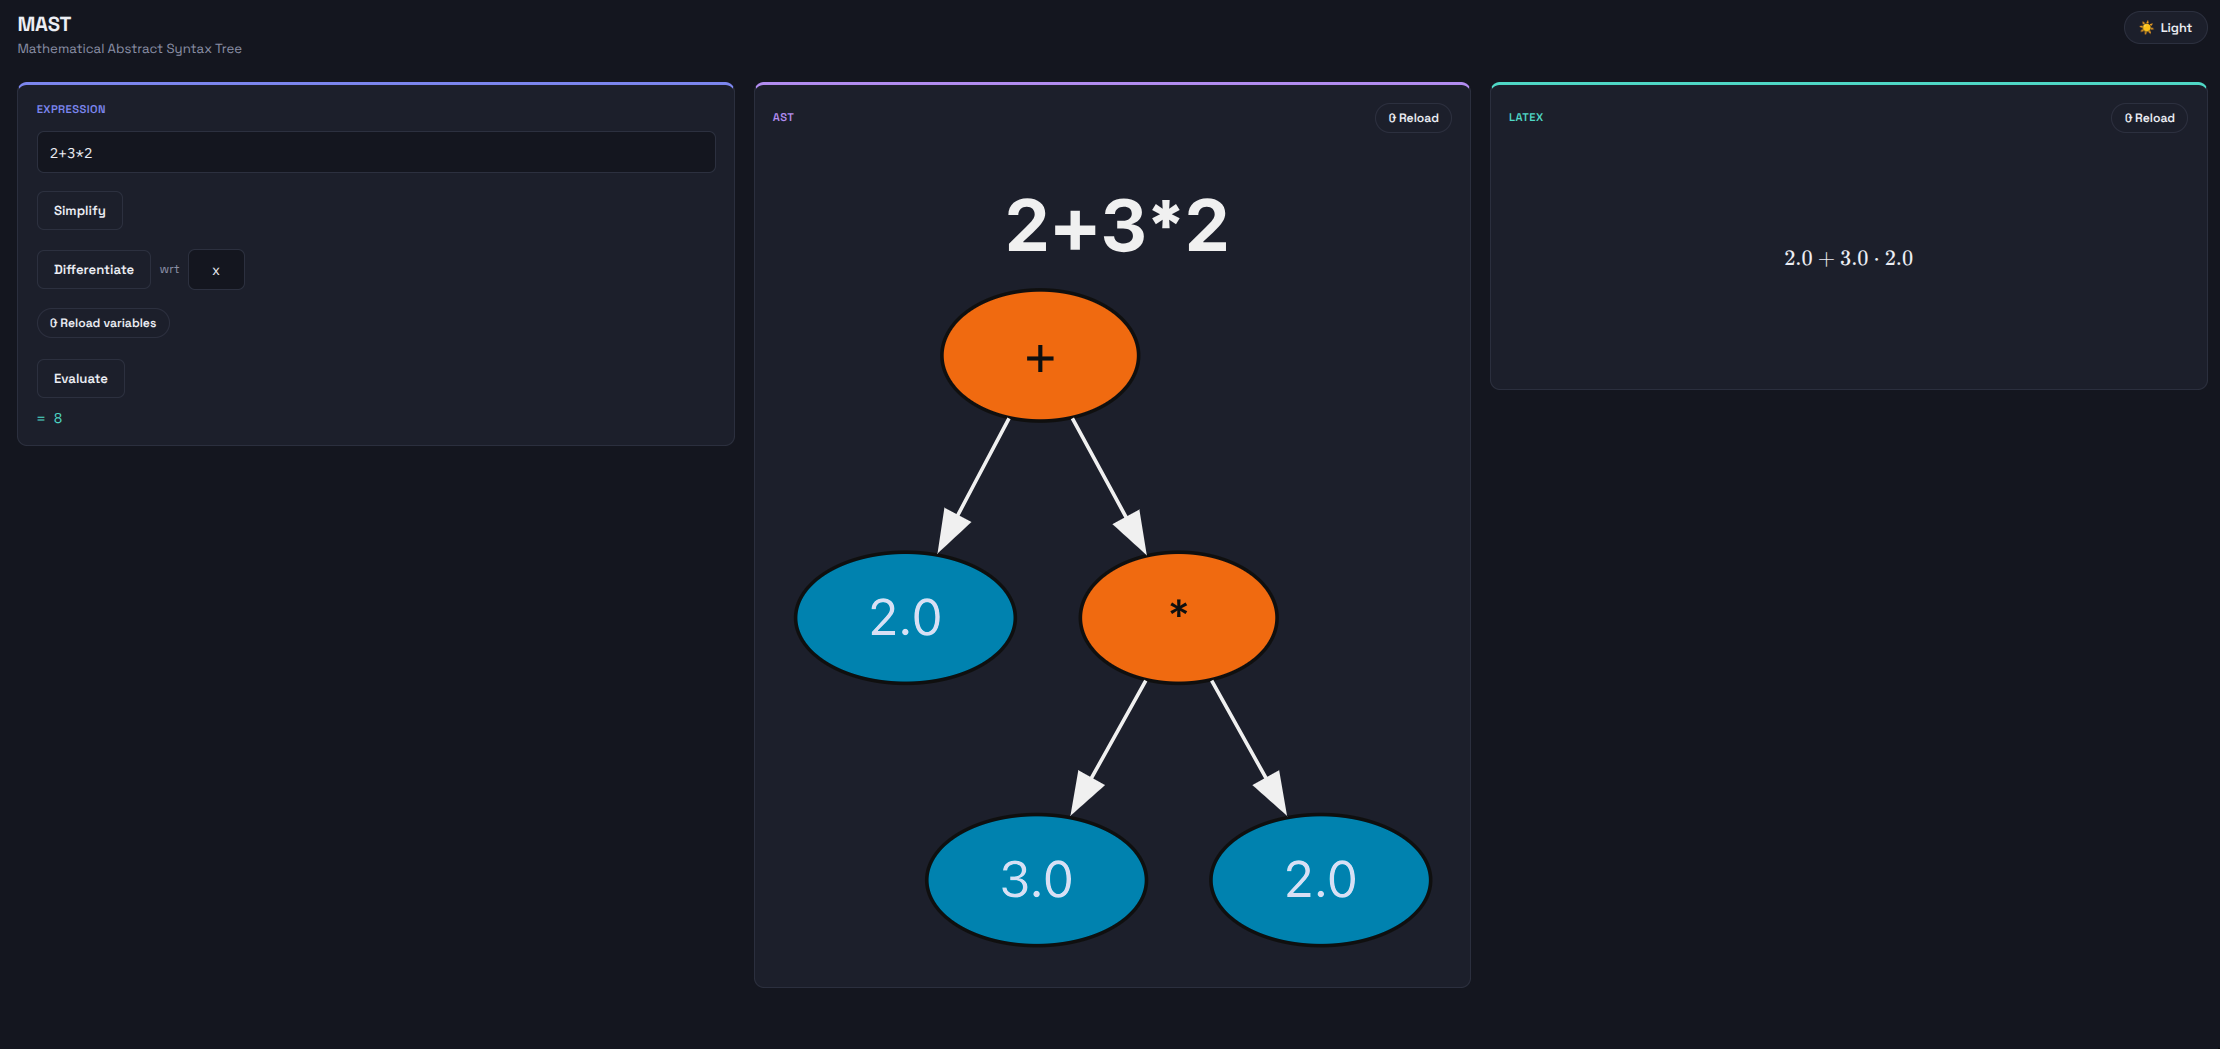
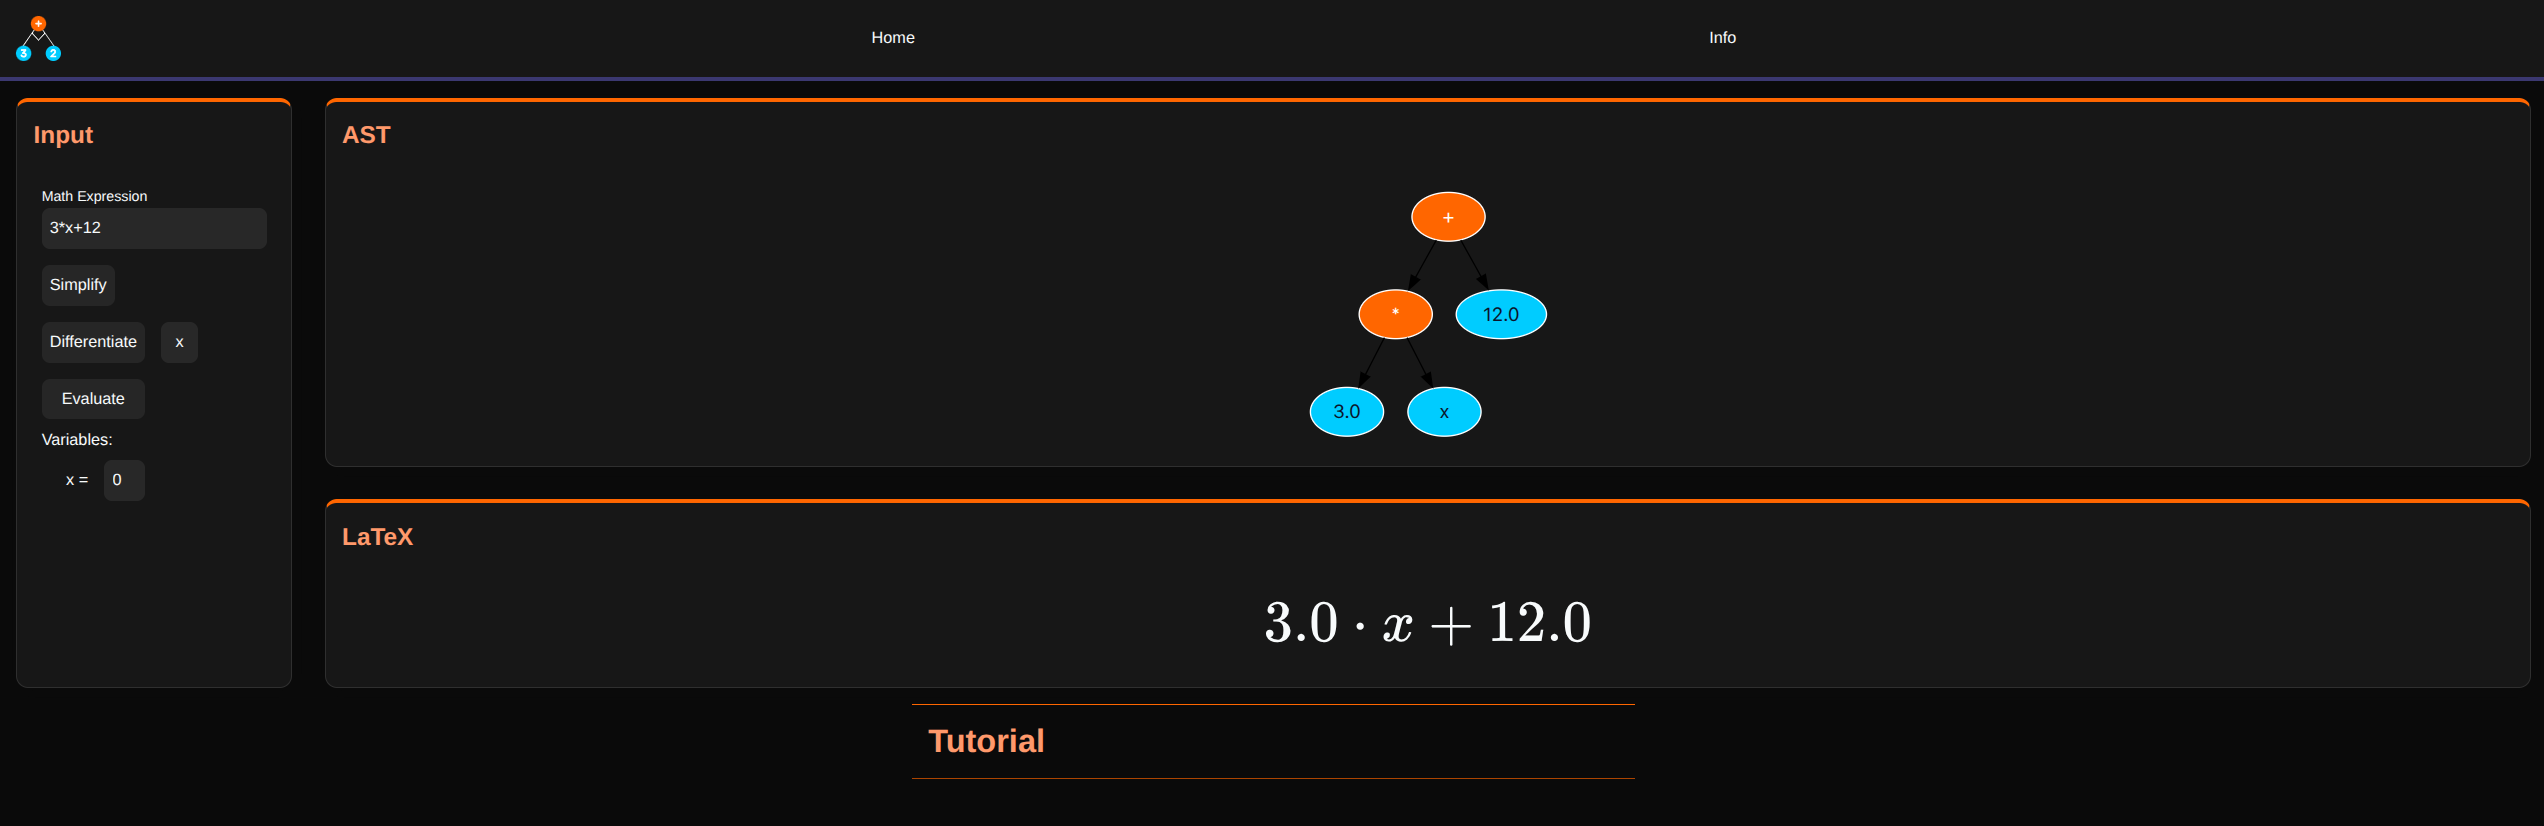
update README

diff --git a/README.md b/README.md
@@ -22,8 +22,8 @@
             <img alt="Logo für Mast" src="docs/images/banner-light.png" width=800>
         </picture>
     </p>
-    <a href="#">
-        (Link to the demo)
+    <a href="https://mast.toqtou.me">
+        Demo
     </a>
 </div>
 
@@ -39,33 +39,30 @@
 - **Evaluating expressions.** If you have $ax^2 + bx + c$ you can input _a, b, c_ and _x_ and it will give you the value.
 - **Output LaTeX.** After inputting your math you can view the ast or, if you are a human, you can also view the Latex.
 
-## Common pitfalls
-
-1. You must always specify multiplication. Usually you can just write $3x$ and everyone knows it is $3\cdot x$. My program doesn't
-
 
 ## Running it locally
 
 To run this project you need:
-- [uv](https://docs.astral.sh/uv/getting-started/installation/)
-- [graphviz](https://graphviz.org)
+- [docker](https://docs.docker.com/engine/install/)
 - [git](https://git-scm.com/install/windows)
 
-To run the web ui just run the folowing commands:
+To run the web app just run the folowing commands:
 
 ```bash
 git clone https://github.com/fritl/mast.git
 cd mast
-uv run fastapi dev
+docker build -t mast:latest .
+docker run --rm -p 80:8000 mast:latest
 ```
-Then just open [http://localhost:8000](http://localhost:8000)
+Then just open [http://localhost](http://localhost)
 
-There's also a small cli you can run but it won't let you do everything unless you are willing to change the code to do the specific action you want to do.
-The cli can be run with:
-
-```bash
-uv run cli.py
-```
+>[!WARNING]
+>For a long time I named image files for the documentation `(3+2)*3.svg` and `3+2*3.svg`.
+>As it turns out Windows doesn't allow any `*` in filenames and I didn't
+>realise this until recently which is why by default you can't checkout most of
+>the commits in this repo if you are on windows. If you still want to check
+>them out you can run `git config core.protectNTFS false`. This will allow you
+>to check out the commits without creating the badly named files
 
 ## How it works
 
@@ -73,8 +70,16 @@ The processing follows three steps:
 1. **Lexing.** In this part the computer converts the input into tokens. While this is not strictly necessary it really helps with the next step because it gets rid of whitespace.
 2. **Parsing.** Specifically I used the _Recursive Descent_ parser. This converts the tokens of the previous step into an abstract syntax tree. This tree is useful because it handles precedence and you can work really well with it.
 
-![ast of 3+2*3](./docs/images/3+2*3.svg)
-![ast of (3+2)*3](./docs/images/(3+2)*3.svg)
+<picture>
+      <source media="(prefers-color-scheme: dark)" srcset="./docs/images/mast_example_1_light.svg">
+      <source media="(prefers-color-scheme: light)" srcset="./docs/images/mast_example_1_dark.svg">
+      <img alt="Beispiel AST" src="./docs/images/mast_example_1_dark.svg">
+</picture>
+<picture>
+      <source media="(prefers-color-scheme: dark)" srcset="./docs/images/mast_example_2_light.svg">
+      <source media="(prefers-color-scheme: light)" srcset="./docs/images/mast_example_2_dark.svg">
+      <img alt="Beispiel AST" src="./docs/images/mast_example_2_dark.svg">
+</picture>
 
 3. **Manipulating the AST.** Once you have parsed the input you can do a lots of actions like simplifying, differentiating or evaluating on the ast
 